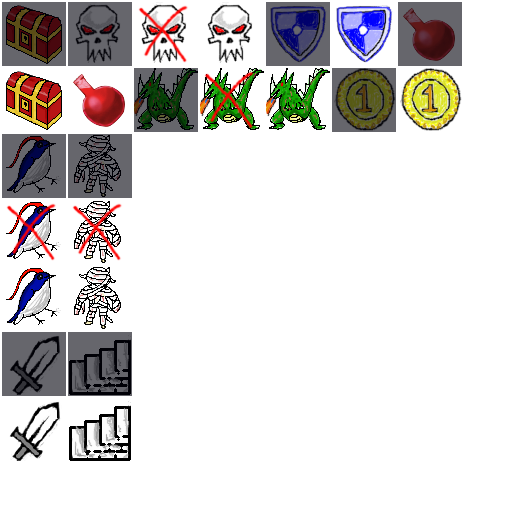
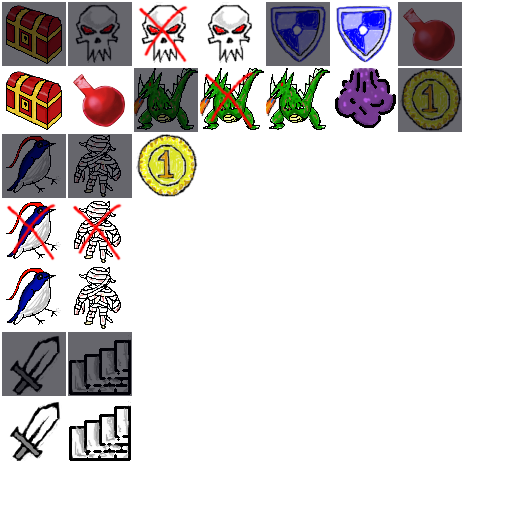
今日は代官山の蔦屋書店で実装する。ドヤリスト達が多くてウケるな。って俺もか！毒の実装をした。

Changed region(s): [[0.625, 0.125, 0.9062, 0.2812], [0.25, 0.25, 0.4062, 0.4062]]

diff --git a/diablo/Enemy.cpp b/diablo/Enemy.cpp
@@ -26,6 +26,7 @@ Enemy* Enemy::createWithEnemyMaster(EnemyMaster* enemy){
     sprite->_panelName = pszSpriteFrameName;
     if(sprite && sprite->initWithSpriteFrameName((sprite->_panelName + ".png").c_str())){
         sprite->enemyMaster = enemy;
+        sprite->skill = EnemySkillMaster::getById(enemy->getSkill());
         
         sprite->setCanExistNum(enemy->getMaxExistsNum());
         sprite->currentHpLabel = CCLabelTTF::create(CCString::createWithFormat("%d", sprite->hp->getCurrentHp())->getCString(), "arial", 10);
@@ -80,6 +81,22 @@ void Enemy::actionAttack(){
     this->runAction(CCSequence::create(scaleBySmall, CCSpawn::createWithTwoActions(scaleByBig, tintByRed), scaleByCurrent, NULL));
 }
 
+void Enemy::actionPoison(){
+    CCSprite* poison = CCSprite::createWithSpriteFrameName("dokunoiki.png");
+    poison->setPosition(ccp(0, 0));
+    this->addChild(poison);
+    CCPoint point = this->getPosition();
+    CCMoveTo* moveTo = CCMoveTo::create(1, ccp(240 - point.x, 50 - point.y));
+    CCCallFuncN *func = CCCallFuncN::create(poison, callfuncN_selector(Enemy::removeSprite));
+    
+    poison->runAction(CCSequence::create(moveTo, func, NULL));
+}
+
+void Enemy::removeSprite(){
+    this->removeFromParentAndCleanup(true);
+    
+}
+
 void Enemy::addAttackLog(){
     std::string text = this->enemyMaster->getName() + "の攻撃で、" + Util::Util::intToString(this->damage) + "のダメージ";
     player->addPlayerLog(text);
@@ -125,6 +142,15 @@ void Enemy::attack(Player* player){
         return;
     }
     
+    int seed = rand() % 100 + 1;
+    if( this->enemyMaster->getSkillProbability() >= seed ){
+        this->skillAttack(player);
+    } else {
+        this->normalAttack(player);
+    }
+}
+
+void Enemy::normalAttack(Player *player){
     //攻撃は、軽減される。
     int damage = baseDamage->getValue() - player->getShieldCurrentHp();
     if(damage < 0){
@@ -136,6 +162,21 @@ void Enemy::attack(Player* player){
     player->addPlayerLog(text);
     player->damageToShield(baseDamage->getValue());
     player->damage(damage);
+}
+
+void Enemy::skillAttack(Player *player){
+    std::string text = this->enemyMaster->getName() + "は「" + this->skill->getName() + "」を使った！";
+    player->addPlayerLog(text);
+    switch(this->skill->getId()){
+        case POISON:
+            this->actionPoison();
+            player->decreaseStrength(1); //力が1下がる。
+            break;
+        case FIRE:
+            break;
+        default:
+            break;
+    }
 }
 
 Enemy::~Enemy(){

diff --git a/diablo/Enemy.h b/diablo/Enemy.h
@@ -16,6 +16,7 @@
 #include "BaseDamage.h"
 #include "ShieldStatus.h"
 #include "EnemyMaster.h"
+#include "EnemySkillMaster.h"
 #include "EnemyData.h"
 #include "Util.h"
 
@@ -27,18 +28,23 @@ class Enemy : public PanelSprite
     BaseDamage* baseDamage; //BaseDamageクラスを一応使う
     ShieldStatus*  shieldStatus;  //ShieldStatusクラスを一応使う
     EnemyMaster* enemyMaster;
+    EnemySkillMaster* skill;
     int exp;
     CCLabelTTF* currentHpLabel; //今のhpの表示
     CCLabelTTF* baseDamageLabel;  //攻撃力の表示
     CCLabelTTF* shieldStatusLabel;  //攻撃力の表示
     bool _isEnemy;
     void actionAttack();
+    void actionPoison();
     void addAttackLog();
+    void removeSprite();
 public:
     static Enemy* createWithEnemyMaster(EnemyMaster* enemy);
     static Enemy* createWithEnemyData(EnemyData* enemyData);
     bool isEnemy();
     void attack(Player* player); //Playerも攻撃対象とかの抽象クラスにするかもね。
+    void normalAttack(Player* player); //通常攻撃
+    void skillAttack(Player* player);  //スキル攻撃
     void setRemoved(Player* player);
     void actionGotoRemoved(Player* player);
     void actionTouched(Player* player);

diff --git a/diablo/EnemySkillMaster.cpp b/diablo/EnemySkillMaster.cpp
@@ -1,0 +1,45 @@
+//
+//  EnemySkillMaster.cpp
+//  diablo
+//
+//  Created by Kosuke Takami on 2013/11/30.
+//
+//
+
+#include "EnemySkillMaster.h"
+
+EnemySkillMaster::EnemySkillMaster(int v){
+    _records = Util::JsonParser::parse("master/enemy_skill.json");
+    picojson::object &records = _records.get<picojson::object>();
+    
+    CCString* idString = CCString::createWithFormat("%d",v);
+    picojson::object &rec = records[idString->getCString()].get<picojson::object>();
+    name = rec["name"].get<std::string>();
+    id = rec["id"].get<double>();
+    value = rec["value"].get<double>();
+    imageId = rec["imageId"].get<double>();
+}
+
+EnemySkillMaster::~EnemySkillMaster(){
+}
+
+int EnemySkillMaster::getId(){
+    return id;
+}
+
+EnemySkillMaster* EnemySkillMaster::getById(int v){
+    EnemySkillMaster *enemy = new EnemySkillMaster(v);
+    return enemy;
+}
+
+std::string EnemySkillMaster::getName(){
+    return this->name;
+}
+
+int EnemySkillMaster::getValue(){
+    return this->value;
+}
+
+int EnemySkillMaster::getImageId(){
+    return this->imageId;
+}

diff --git a/diablo/EnemySkillMaster.h b/diablo/EnemySkillMaster.h
@@ -1,0 +1,35 @@
+//
+//  EnemySkillMaster.h
+//  diablo
+//
+//  Created by Kosuke Takami on 2013/11/30.
+//
+//
+
+#ifndef __diablo__EnemySkillMaster__
+#define __diablo__EnemySkillMaster__
+
+#include <iostream>
+#include "picojson.h"
+#include "Util.h"
+#include "cocos2d.h"
+
+using namespace cocos2d;
+
+class EnemySkillMaster{
+    picojson::value _records;
+    int id;
+    std::string name;
+    int value;
+    int imageId;
+public:
+    static EnemySkillMaster* getById(int v);
+    std::string getName();
+    int getId();
+    int getValue();
+    int getImageId();
+    EnemySkillMaster(int v);
+    ~EnemySkillMaster();
+};
+
+#endif /* defined(__diablo__EnemySkillMaster__) */

diff --git a/diablo/EnemyMaster.cpp b/diablo/EnemyMaster.cpp
@@ -22,6 +22,8 @@ EnemyMaster::EnemyMaster(int v){
     _attack = rec["attack"].get<double>();
     _def = rec["def"].get<double>();
     _exp = rec["exp"].get<double>();
+    skill = rec["skill"].get<double>();
+    skillProbability = rec["skillProbability"].get<double>();
 }
 
 EnemyMaster::~EnemyMaster(){
@@ -62,4 +64,12 @@ std::string EnemyMaster::getName(){
 
 int EnemyMaster::getExp(){
     return _exp;
+}
+
+int EnemyMaster::getSkill(){
+    return skill;
+}
+
+int EnemyMaster::getSkillProbability(){
+    return skillProbability;
 }

diff --git a/diablo/AttributeBase.cpp b/diablo/AttributeBase.cpp
@@ -24,3 +24,22 @@ void AttributeBase::add(int v){
 int AttributeBase::getCurrent(){
     return current;
 }
+
+void AttributeBase::decreaseCurrent(int v){
+    this->setCurrent(current - v);
+}
+
+void AttributeBase::recoverAll(){
+    this->current = max;
+}
+
+void AttributeBase::setCurrent(int v){
+    int setValue = v;
+    if(v < 0){
+        setValue = 0;
+    }
+    if(v > max){
+        setValue = max;
+    }
+    this->current = setValue;
+}

diff --git a/diablo/EnemyMaster.h b/diablo/EnemyMaster.h
@@ -22,6 +22,8 @@ class EnemyMaster{
     int _def;
     int _exp;
     int _maxExistsNum;
+    int skill;
+    int skillProbability;
 public:
     static EnemyMaster* getById(int v);
     void setMaxExistsNum(int v);
@@ -32,6 +34,8 @@ public:
     int getAttack();
     int getDef();
     int getExp();
+    int getSkill();
+    int getSkillProbability();
     EnemyMaster(int v);
     ~EnemyMaster();
 };

diff --git a/diablo/Player.cpp b/diablo/Player.cpp
@@ -174,6 +174,10 @@ void Player::resetDamage(){
     accumDamages->removeAllObjects();
 }
 
+void Player::decreaseStrength(int v){
+    attributes->decreaseStrength(v);
+}
+
 int Player::getBudget(){
     return this->budget->getCurrent();
 }

diff --git a/diablo/Attributes.cpp b/diablo/Attributes.cpp
@@ -125,6 +125,10 @@ void Attributes::damage(int v){
     hp->reduce(v);
 }
 
+void Attributes::decreaseStrength(int v){
+    strength->decreaseCurrent(v);
+}
+
 void Attributes::reduceHungryP(int v){
     hungryP->reduce(v);
 }

diff --git a/diablo/AttributeBase.h b/diablo/AttributeBase.h
@@ -18,6 +18,9 @@ protected:
 public:
     void add(int v);
     int getCurrent();
+    void decreaseCurrent(int v);
+    void setCurrent(int v);
+    void recoverAll();
     AttributeBase(int v);
     ~AttributeBase();
 };

diff --git a/diablo/Player.h b/diablo/Player.h
@@ -67,6 +67,8 @@ public:
     void reduceHungryP(int v);
     void damageWithHungryP();
     
+    void decreaseStrength(int v);
+    
     void recover(int v);
     void recoverAllHp();
     void recoverShield(int v);

diff --git a/diablo/Attributes.h b/diablo/Attributes.h
@@ -102,6 +102,8 @@ public:
     void popDamage();
     void resetDamage();
     
+    void decreaseStrength(int v);
+    
     void addStrength(int v);
     void addDefense(int v);
     void addDexterity(int v);
